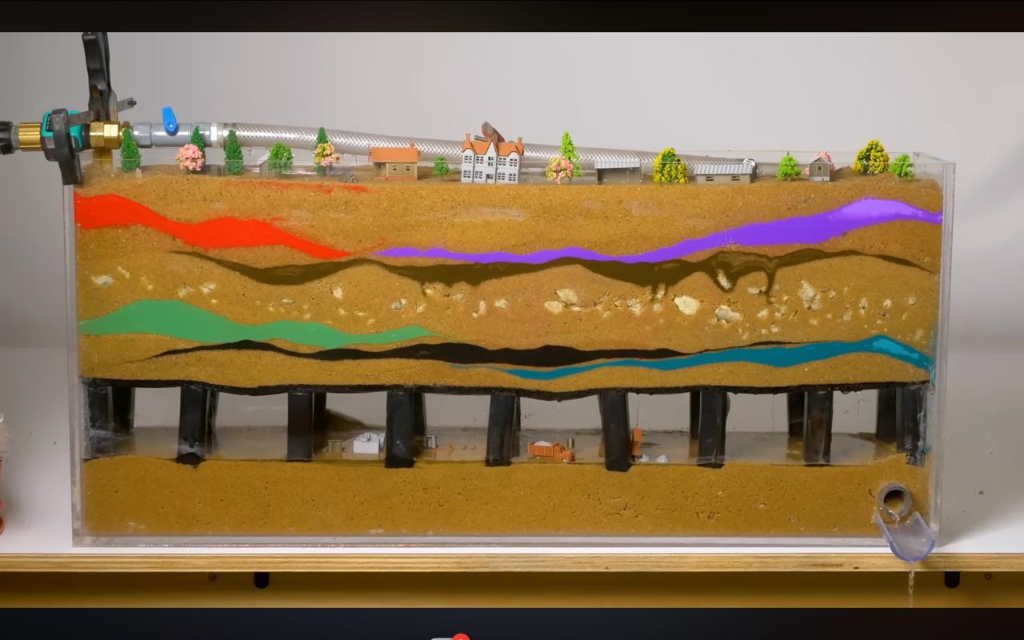
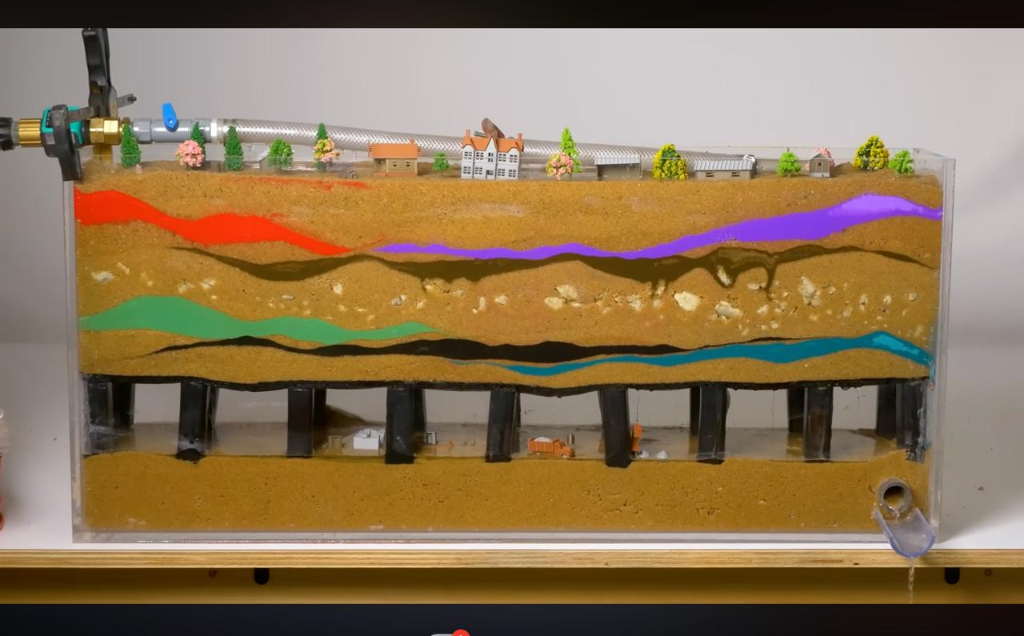
Support all 3 mine cross-section images with proportional fit and tab controls

diff --git a/web_app/templates/index.html b/web_app/templates/index.html
@@ -137,14 +137,15 @@
                 </div>
 
                 <div class="schematic-box" style="border: 1px solid #cbd5e1; border-radius: 10px; overflow: hidden; background: #0f172a;">
-                    <!-- Card Top Header with Toggle -->
+                    <!-- Card Top Header with Toggle for All 3 Images -->
                     <div style="background: #0f172a; padding: 12px 20px; display: flex; justify-content: space-between; align-items: center; border-bottom: 1px solid #334155;">
                         <span style="color: #f8fafc; font-weight: 700; font-size: 0.9rem; display: flex; align-items: center; gap: 8px;">
                             <span>⛏</span> Geological Cross-Section Visualizer (Geomechanical Strata Model)
                         </span>
                         <div style="display: flex; gap: 8px;">
                             <button class="scen-img-btn active" id="btn-show-model-img" onclick="switchMineImage(1)" style="background: #0284c7; color: white; border: none; padding: 6px 14px; border-radius: 6px; font-size: 0.78rem; font-weight: 700; cursor: pointer; transition: all 0.2s ease;">Strata Layer Model</button>
-                            <button class="scen-img-btn" id="btn-show-subsidence-img" onclick="switchMineImage(2)" style="background: #334155; color: #94a3b8; border: none; padding: 6px 14px; border-radius: 6px; font-size: 0.78rem; font-weight: 700; cursor: pointer; transition: all 0.2s ease;">Surface Sinkhole Collapse</button>
+                            <button class="scen-img-btn" id="btn-show-sandbox-img" onclick="switchMineImage(2)" style="background: #334155; color: #94a3b8; border: none; padding: 6px 14px; border-radius: 6px; font-size: 0.78rem; font-weight: 700; cursor: pointer; transition: all 0.2s ease;">Physical Sandbox Model</button>
+                            <button class="scen-img-btn" id="btn-show-subsidence-img" onclick="switchMineImage(3)" style="background: #334155; color: #94a3b8; border: none; padding: 6px 14px; border-radius: 6px; font-size: 0.78rem; font-weight: 700; cursor: pointer; transition: all 0.2s ease;">Surface Sinkhole Collapse</button>
                         </div>
                     </div>
 
@@ -175,10 +176,11 @@
                         </div>
                     </div>
 
-                    <!-- Image Display Container (Full Uncropped View) -->
-                    <div style="position: relative; width: 100%; height: 440px; background: #020617; display: flex; align-items: center; justify-content: center; padding: 0;">
-                        <img id="mine-cross-img-1" src="/static/images/mine_cross_section_1.png" alt="Mine Cross-Section Strata" style="width: 100%; height: 100%; object-fit: cover; object-position: center; display: block;">
-                        <img id="mine-cross-img-2" src="/static/images/mine_cross_section_2.png" alt="Mine Surface Sinkhole Collapse" style="width: 100%; height: 100%; object-fit: cover; object-position: center; display: none;">
+                    <!-- Image Display Container (Proportional Uncropped View for All 3 Images) -->
+                    <div style="position: relative; width: 100%; height: 480px; background: #070a12; display: flex; align-items: center; justify-content: center; padding: 0; overflow: hidden;">
+                        <img id="mine-cross-img-1" src="/static/images/mine_cross_section_1.png" alt="Mine Cross-Section Strata" style="width: 100%; height: 100%; object-fit: contain; object-position: center; display: block; background: #070a12;">
+                        <img id="mine-cross-img-2" src="/static/images/mine_cross_section_2.png" alt="Mine Physical Sandbox Model" style="width: 100%; height: 100%; object-fit: contain; object-position: center; display: none; background: #070a12;">
+                        <img id="mine-cross-img-3" src="/static/images/mine_cross_section_3.png" alt="Mine Surface Sinkhole Collapse" style="width: 100%; height: 100%; object-fit: contain; object-position: center; display: none; background: #070a12;">
 
                         <!-- Crisp High-Contrast Bottom GOB Zone Banner -->
                         <div id="gob-zone" style="position: absolute; bottom: 14px; left: 20px; right: 20px; background: rgba(15, 23, 42, 0.92); backdrop-filter: blur(6px); border-left: 5px solid #dc2626; border-radius: 6px; padding: 10px 18px; display: flex; justify-content: space-between; align-items: center; box-shadow: 0 4px 12px rgba(0,0,0,0.4);">

diff --git a/web_app/static/js/main.js b/web_app/static/js/main.js
@@ -744,18 +744,31 @@ function initLiveHardwarePolling() {
 function switchMineImage(imgNum) {
     const img1 = document.getElementById('mine-cross-img-1');
     const img2 = document.getElementById('mine-cross-img-2');
+    const img3 = document.getElementById('mine-cross-img-3');
     const btn1 = document.getElementById('btn-show-model-img');
-    const btn2 = document.getElementById('btn-show-subsidence-img');
+    const btn2 = document.getElementById('btn-show-sandbox-img');
+    const btn3 = document.getElementById('btn-show-subsidence-img');
 
     if (imgNum === 1) {
         if (img1) img1.style.display = 'block';
         if (img2) img2.style.display = 'none';
+        if (img3) img3.style.display = 'none';
         if (btn1) { btn1.style.background = '#0284c7'; btn1.style.color = '#ffffff'; }
-        if (btn2) { btn2.style.background = '#475569'; btn2.style.color = '#ffffff'; }
-    } else {
+        if (btn2) { btn2.style.background = '#334155'; btn2.style.color = '#94a3b8'; }
+        if (btn3) { btn3.style.background = '#334155'; btn3.style.color = '#94a3b8'; }
+    } else if (imgNum === 2) {
         if (img1) img1.style.display = 'none';
         if (img2) img2.style.display = 'block';
-        if (btn1) { btn1.style.background = '#475569'; btn1.style.color = '#ffffff'; }
-        if (btn2) { btn2.style.background = '#dc2626'; btn2.style.color = '#ffffff'; }
+        if (img3) img3.style.display = 'none';
+        if (btn1) { btn1.style.background = '#334155'; btn1.style.color = '#94a3b8'; }
+        if (btn2) { btn2.style.background = '#0284c7'; btn2.style.color = '#ffffff'; }
+        if (btn3) { btn3.style.background = '#334155'; btn3.style.color = '#94a3b8'; }
+    } else if (imgNum === 3) {
+        if (img1) img1.style.display = 'none';
+        if (img2) img2.style.display = 'none';
+        if (img3) img3.style.display = 'block';
+        if (btn1) { btn1.style.background = '#334155'; btn1.style.color = '#94a3b8'; }
+        if (btn2) { btn2.style.background = '#334155'; btn2.style.color = '#94a3b8'; }
+        if (btn3) { btn3.style.background = '#dc2626'; btn3.style.color = '#ffffff'; }
     }
 }
